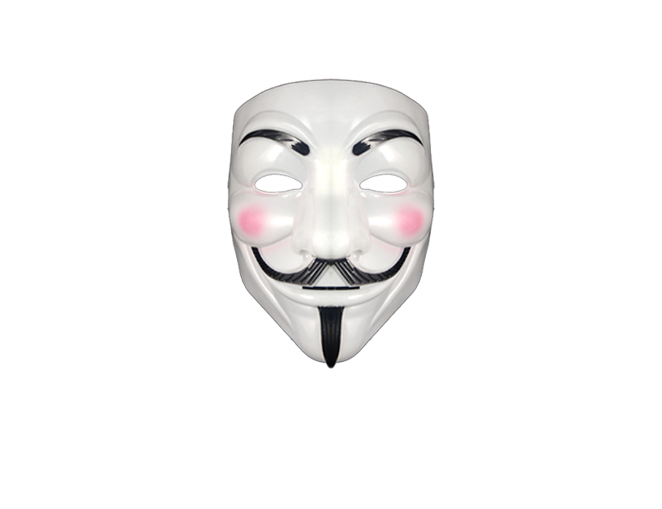
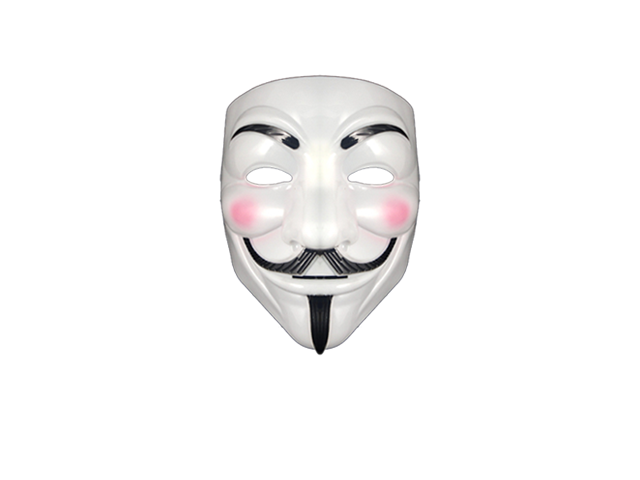
fixes

diff --git a/videoNcanvas/js/script.js b/videoNcanvas/js/script.js
@@ -6,6 +6,7 @@ navigator.getUserMedia = navigator.getUserMedia ||
 (function (document) {
     var canvas = document.getElementById("droparea");
     var context = canvas.getContext("2d");
+    var img = document.getElementById("guy");
     var video = document.getElementById("videoarea");
     var button = document.getElementById("save");
     var localMediaStream = null;
@@ -29,19 +30,19 @@ navigator.getUserMedia = navigator.getUserMedia ||
         });
     };
     var draw = function (data) {
-        console.log(data);
         video.style.display = "none";
+        img.style.display = "none";
         canvas.style.display = "block";
         var image = new Image();
-        var overlay = new Image();
-        overlay.src = "assets/guyfox.png";
         image.onload = function() {
+            var overlay = new Image();
             context.drawImage(image, 0, 0);
-        };
-        overlay.onload = function () {
-            setTimeout(function () {
+            overlay.onload = function () {
                 context.drawImage(overlay, 0, 0);
-            }, 1000);
+                context.translate(640, 0);
+                context.scale(-1, 1);
+            }
+            overlay.src = "assets/guyfox.png";
         };
         context.clearRect(0, 0, canvas.width, canvas.height);
         image.src = data;

diff --git a/videoNcanvas/index.html b/videoNcanvas/index.html
@@ -84,7 +84,7 @@
 	<body>
         <div class="wrap">
             <video autoplay id="videoarea" class="area"></video>
-            <img src="assets/guyfox.png" class="area" />
+            <img id="guy" src="assets/guyfox.png" class="area" />
             <canvas style="display:none;" id="droparea" class="area"></canvas>
             <button id="snap">snap</button>
             <button id="capture">capture</button>
